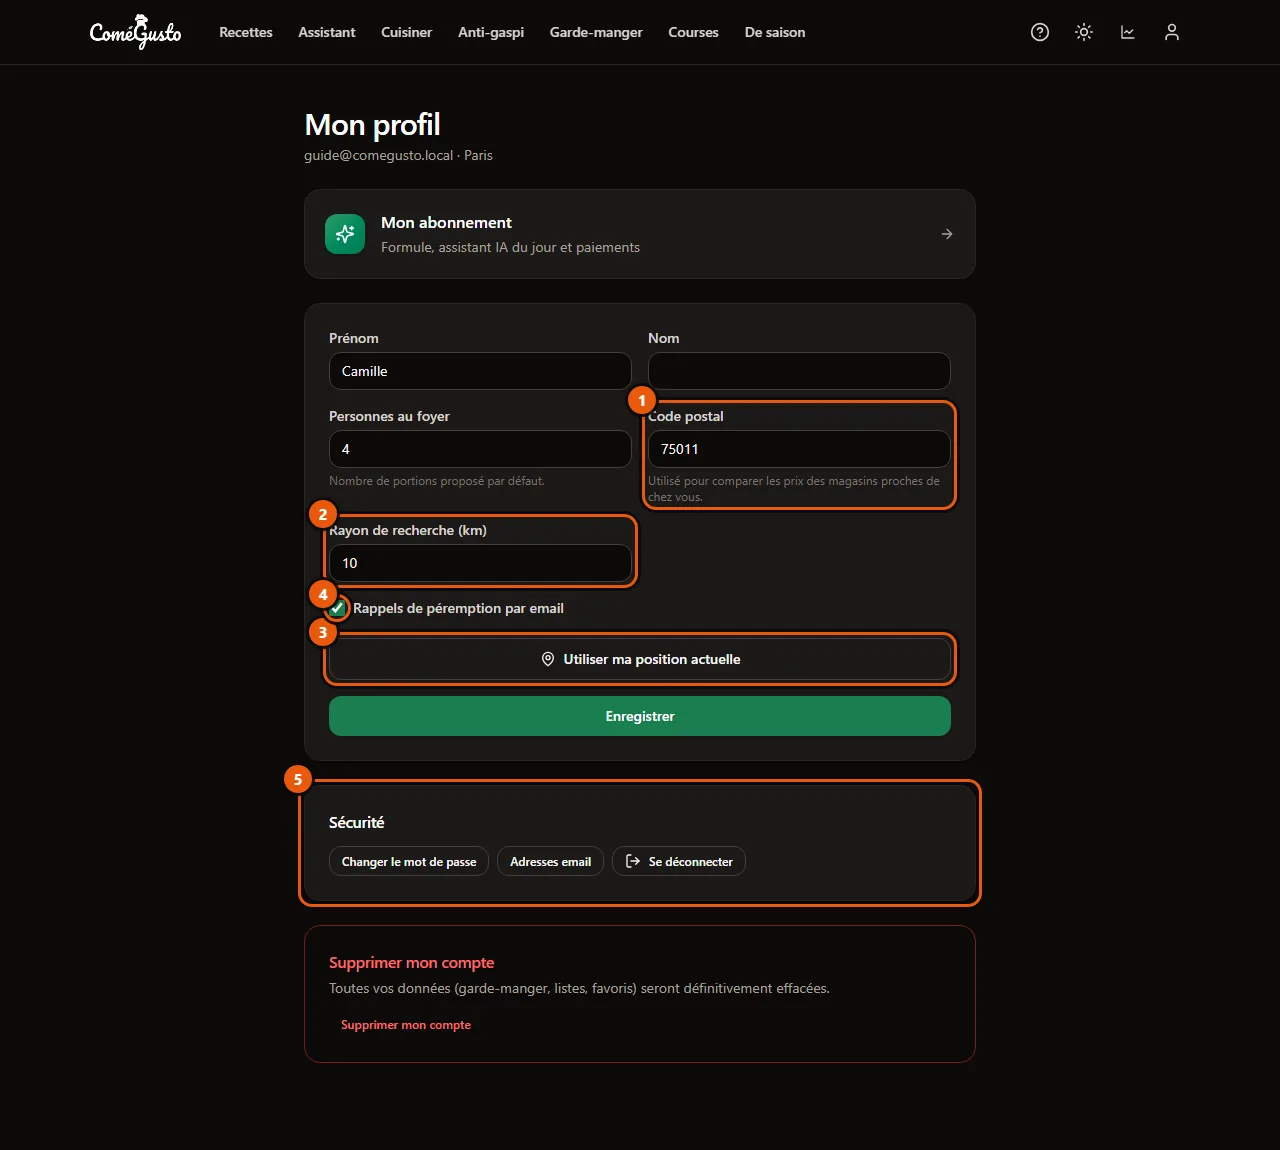
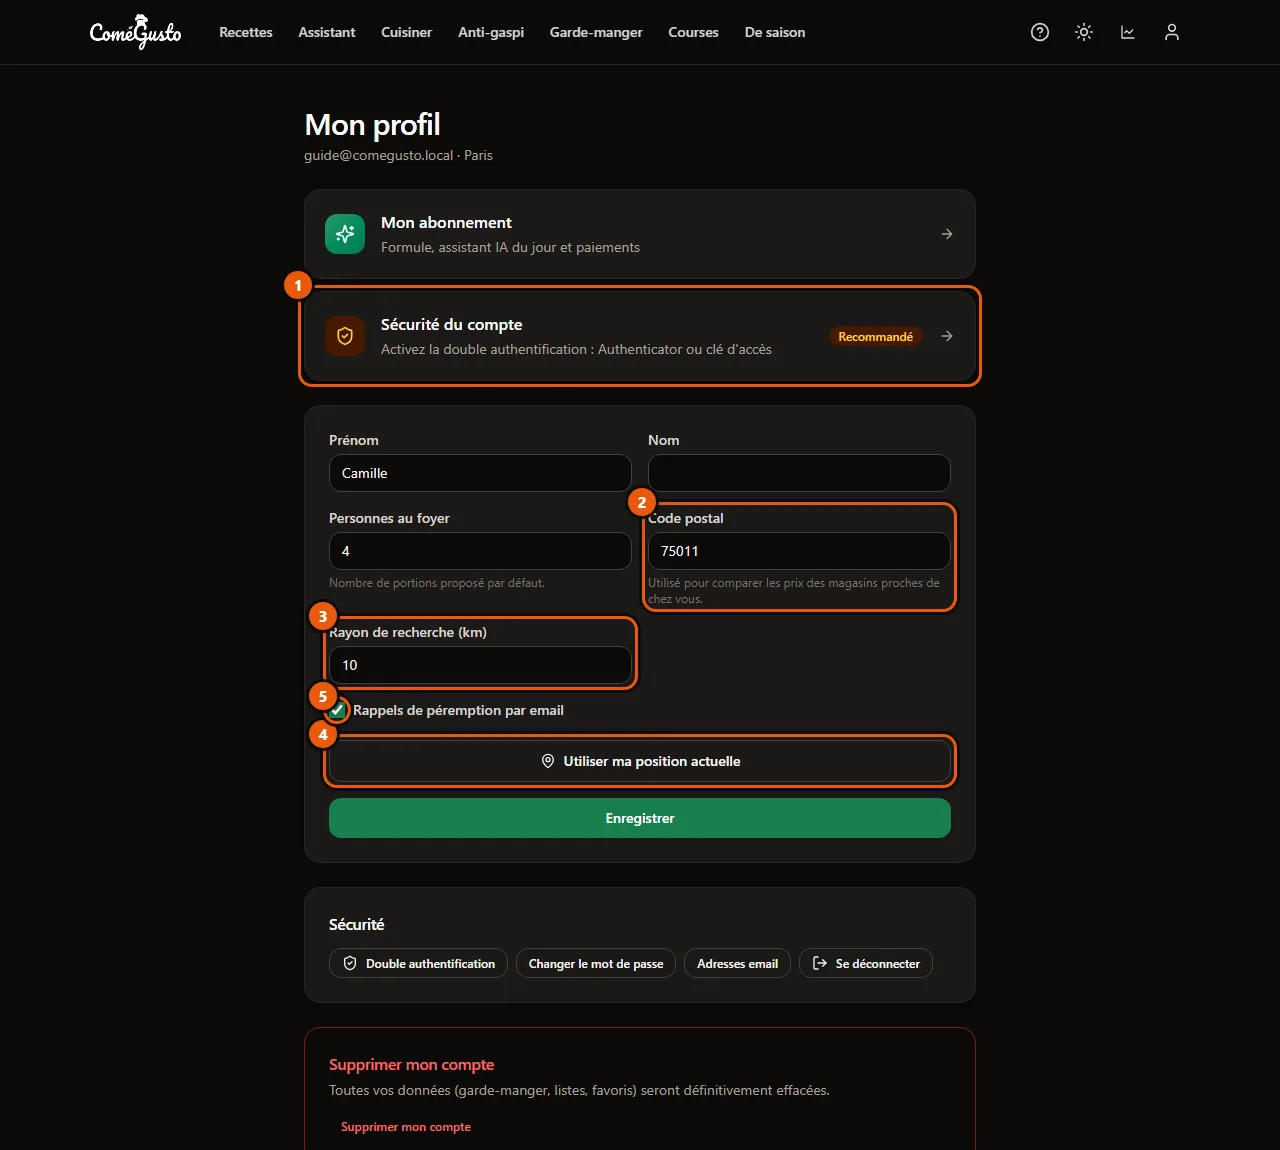
Document account security and multiple account limits (#46)

Changed region(s): [[0.2188, 0.213, 0.7812, 1.0]]

diff --git a/templates/guide/chapters/compte.html b/templates/guide/chapters/compte.html
@@ -9,8 +9,17 @@
   <li><strong>Rappels de péremption</strong> : active ou désactive l'email quotidien.</li>
 </ul>
 
-<h2 id="securite">Sécurité</h2>
-<p>Depuis la section <strong>Sécurité</strong>, changez votre mot de passe, gérez vos adresses email ou déconnectez-vous.</p>
+<h2 id="securite">Sécurité du compte</h2>
+<p>La carte <strong>Sécurité du compte</strong> du profil rassemble la double authentification, le mot de passe et les adresses email.</p>
+{% guide_figure "security" %}
+<p>Avec la double authentification, un mot de passe ne suffit plus pour entrer dans votre compte : il faut aussi votre téléphone ou votre appareil.</p>
+<ul>
+  <li><strong>Application d'authentification</strong> : cliquez sur <strong>Activer</strong>, confirmez votre mot de passe, scannez le QR code avec Google Authenticator, Microsoft Authenticator ou 1Password, puis saisissez le code à 6 chiffres affiché.</li>
+  <li><strong>Clé d'accès</strong> : cliquez sur <strong>Ajouter</strong> et validez avec l'empreinte, le visage ou le code de votre appareil. Vous pourrez ensuite vous connecter avec <strong>Se connecter avec une clé d'accès</strong>, sans mot de passe.</li>
+  <li><strong>Codes de secours</strong> : dix codes à usage unique, créés à l'activation. Téléchargez-les et gardez-les hors de votre téléphone.</li>
+</ul>
+<p>À la connexion suivante, Comégusto demande le code de l'application (ou votre clé d'accès). Vous pouvez faire confiance au navigateur pendant deux semaines pour ne pas le saisir à chaque fois.</p>
+<p class="guide-note">La double authentification demande une adresse email confirmée. Si besoin, renvoyez le lien depuis <strong>Adresses email</strong>.</p>
 
 <h2 id="supprimer">Supprimer son compte</h2>
 <p>La suppression est définitive : garde-manger, listes de courses et favoris sont effacés. Une confirmation vous est demandée avant toute suppression.</p>

diff --git a/templates/guide/chapters/faq.html b/templates/guide/chapters/faq.html
@@ -62,5 +62,19 @@
   <p>Non, pas pour un virement ou un paiement Wero : vous payez une période, puis votre compte revient à la formule Gratuit. Vous renouvelez quand vous le souhaitez.</p>
 </details>
 
+<h2 id="securite">Sécurité</h2>
+<details>
+  <summary>J'ai perdu mon téléphone, comment me connecter ?</summary>
+  <p>Saisissez un de vos codes de secours à la place du code de l'application, puis réactivez la double authentification depuis <strong>Sécurité du compte</strong>. Sans code de secours, écrivez-nous depuis la page <a href="{% url 'core:contact' %}">Contact</a> : après vérification, l'équipe peut retirer la double authentification de votre compte.</p>
+</details>
+<details>
+  <summary>Pourquoi mon quota d'assistant est-il partagé ?</summary>
+  <p>Les comptes gratuits utilisés sur le même appareil partagent le quota du jour, pour que chacun puisse profiter de l'assistant sans que des comptes en série l'épuisent. Les formules Plus et Famille ont leur propre quota.</p>
+</details>
+<details>
+  <summary>Pourquoi mon adresse email est-elle refusée ?</summary>
+  <p>Les adresses temporaires (jetables) ne sont pas acceptées, et une même boîte mail ne peut ouvrir qu'un compte, y compris avec un alias comme <code>prenom+courses@…</code>.</p>
+</details>
+
 <h2 id="aide">Besoin d'aide ?</h2>
 <p>Écrivez-nous via la page <a href="{% url 'core:contact' %}">Contact</a>, ou signalez un problème sur <a href="https://github.com/Aziguy/reaco_updated/issues" rel="noopener">GitHub</a>.</p>

diff --git a/apps/guide/content.py b/apps/guide/content.py
@@ -439,6 +439,7 @@ FIGURES = {
             height=1150,
             caption="Votre profil.",
             callouts=(
+                Callout('main a[href="/compte/2fa/"] >> nth=0', "Sécurité du compte"),
                 Callout(
                     ".field:has(#id_postal_code)",
                     "Code postal",
@@ -449,7 +450,29 @@ FIGURES = {
                     "[data-geolocate]", "Ma position", "Remplit la localisation automatiquement."
                 ),
                 Callout("#id_expiry_reminders", "Rappels par email"),
-                Callout('main section:has(h2:text-is("Sécurité"))', "Sécurité"),
+            ),
+        ),
+        Figure(
+            name="security",
+            path="/compte/2fa/",
+            height=820,
+            caption="La double authentification, depuis Sécurité du compte.",
+            callouts=(
+                Callout(
+                    'main li:has(h2:text-is("Application d\'authentification"))',
+                    "Application",
+                    "Un code à 6 chiffres à chaque connexion.",
+                ),
+                Callout(
+                    'main li:has(h2:text-is("Clés d\'accès"))',
+                    "Clé d'accès",
+                    "Empreinte, visage ou code de l'appareil.",
+                ),
+                Callout(
+                    'main li:has(h2:text-is("Codes de secours"))',
+                    "Codes de secours",
+                    "Si vous perdez votre téléphone.",
+                ),
             ),
         ),
         Figure(
@@ -691,9 +714,9 @@ CHAPTERS = [
     Chapter(
         "compte",
         "Mon compte",
-        "Profil, localisation, rappels, sécurité et suppression.",
+        "Profil, localisation, double authentification et suppression.",
         "user",
-        ("profile",),
+        ("profile", "security"),
     ),
     Chapter(
         "abonnement",

diff --git a/apps/guide/management/commands/capture_guide.py b/apps/guide/management/commands/capture_guide.py
@@ -144,6 +144,7 @@ class Command(BaseCommand):
         user.pantry_items.all().delete()
         user.shopping_lists.all().delete()
         user.subscriptions.all().delete()
+        user.authenticator_set.all().delete()
         plan = Plan.objects.filter(slug="plus").first()
         if plan:
             Subscription.objects.create(

diff --git a/docs/src/content/docs/architecture/securite.md b/docs/src/content/docs/architecture/securite.md
@@ -37,6 +37,26 @@ Le contrôle `/health/` est traité par un middleware placé avant la validation
 - Connexion Google facultative, activée seulement si `GOOGLE_CLIENT_ID` est défini.
 - Chemin de l'administration personnalisable (`ADMIN_URL`).
 
+## Double authentification
+
+`allauth.mfa` ajoute un second facteur à la connexion, quel que soit le moyen de connexion :
+
+| Méthode | Détail |
+| --- | --- |
+| Application d'authentification | Codes TOTP à 6 chiffres (Google Authenticator, Microsoft Authenticator, 1Password…), secret chiffré en base |
+| Clés d'accès | WebAuthn (empreinte, visage, Windows Hello, clé de sécurité) ; une clé « sans mot de passe » permet aussi de se connecter seule (`MFA_PASSKEY_LOGIN_ENABLED`) |
+| Codes de secours | Dix codes à usage unique, créés à l'activation |
+
+- Activer ou retirer une méthode redemande le mot de passe, et exige une adresse email vérifiée.
+- Après le code, l'utilisateur peut faire confiance au navigateur pendant 14 jours (`MFA_TRUST_ENABLED`, cookie signé).
+- Les écrans sont ceux du site (`templates/mfa/`) ; la page **Sécurité du compte** est `/compte/2fa/`.
+
+**Administration.** La page de connexion de l'administration redirige vers celle du site (`secure_admin_login`), qui applique la double authentification. `apps.accounts.middleware.StaffMFAMiddleware` renvoie tout compte de l'équipe sans méthode active vers la page de sécurité (`MFA_REQUIRED_FOR_STAFF`, actif par défaut). Un super-utilisateur peut réinitialiser la double authentification d'un compte depuis la liste des utilisateurs, pour une personne qui a perdu son téléphone et ses codes.
+
+:::note
+Les jetons d'API (`TokenAuthentication`) ne passent pas par la double authentification : ils ne sont créés que par l'équipe, depuis l'administration. Traitez-les comme des mots de passe.
+:::
+
 ## Données personnelles
 
 - Chaque vue et chaque point d'API qui touche au garde-manger, aux listes ou aux favoris filtre sur l'utilisateur connecté ; les tests vérifient qu'un autre utilisateur obtient une 404.
@@ -51,6 +71,23 @@ Le contrôle `/health/` est traité par un middleware placé avant la validation
 - Une page de paiement n'est visible que par son abonné ; une formule n'est activée que par l'équipe (virement, Wero) ou par un événement signé (Stripe).
 
 ## Abus
+
+### Comptes multiples
+
+Créer plusieurs comptes pour cumuler les quotas gratuits de l'assistant est freiné, sans empreinte du navigateur ni donnée tierce :
+
+| Mesure | Détail |
+| --- | --- |
+| Adresses jetables refusées | Liste `disposable-email-domains` (près de 10 000 domaines, sous-domaines compris), complétée par `BLOCKED_EMAIL_DOMAINS` |
+| Une boîte mail, un compte | `User.email_canonical` : minuscules, sans `+étiquette`, sans les points de Gmail (`googlemail.com` compris) ; vérifié à l'inscription |
+| Inscriptions par connexion | Au plus `SIGNUP_LIMIT_PER_IP` comptes créés par adresse IP et par jour (5 par défaut, 0 pour désactiver) |
+| Email vérifié pour l'assistant | Un compte dont l'adresse attend sa confirmation n'utilise pas l'assistant |
+| Jeton d'appareil | Cookie signé `cg_device` (HttpOnly, 2 ans), posé pour les comptes connectés uniquement ; seule son empreinte SHA-256 est en base (`Device`, `DeviceLink`) |
+| Quota partagé | Les comptes gratuits vus sur un même appareil partagent le quota du jour de l'assistant ; abonnés et équipe gardent le leur |
+
+Les comptes liés à un même appareil sont visibles sur la fiche utilisateur de l'administration (filtre **appareil partagé**). Ces mesures relèvent de la sécurité du service : le jeton n'est ni publicitaire ni partagé, mais il doit figurer dans la politique de confidentialité.
+
+### Limites de débit
 
 - Formulaire de contact : pot de miel et limite de 3 messages par heure et par adresse IP (`apps/core/ratelimit.py`, compteur en cache).
 - API : 60 requêtes par minute en anonyme, 240 authentifié.

diff --git a/docs/src/content/docs/evolution/decisions.md b/docs/src/content/docs/evolution/decisions.md
@@ -90,3 +90,15 @@ Chaque décision suit le même format : contexte, décision, conséquences. Pour
 - **Contexte** : l'équipe ne peut pas saisir tous les plats demandés par les utilisateurs.
 - **Décision** : un plat absent est écrit par l'assistant à la demande et part en relecture ; l'administration peut suggérer et générer des plats par lot. Un ingrédient inconnu est créé « à vérifier » plutôt que retiré de la recette.
 - **Conséquences** : le catalogue s'enrichit des envies réelles ; rien n'est publié sans relecture ; les nouveaux ingrédients ont un prix dès que leur catégorie Open Food Facts est vérifiée.
+
+## 15. Double authentification avec allauth.mfa, obligatoire pour l'équipe
+
+- **Contexte** : un mot de passe volé ouvrirait un compte, et pour l'équipe l'administration, les paiements et les données des utilisateurs.
+- **Décision** : `allauth.mfa`, déjà cohérent avec la connexion existante : application d'authentification, clés d'accès et codes de secours. La connexion de l'administration passe par celle du site ; la double authentification y est obligatoire. Pour les utilisateurs, elle est proposée et recommandée.
+- **Conséquences** : pas de service tiers ni de SMS ; un super-utilisateur peut réinitialiser la double authentification d'un compte ; les jetons d'API restent réservés à l'équipe.
+
+## 16. Comptes multiples : mesures proportionnées, sans empreinte du navigateur
+
+- **Contexte** : le quota gratuit de l'assistant coûte environ un centime par jour et par compte ; des comptes en série pourraient épuiser le budget mensuel.
+- **Décision** : refuser les adresses jetables et les alias d'une même boîte, limiter les inscriptions par adresse IP, exiger un email vérifié pour l'assistant, et poser un jeton signé sur l'appareil des comptes connectés : les comptes gratuits d'un appareil partagent le quota du jour. Pas d'empreinte du navigateur (fingerprinting), soumise au consentement et peu fiable, ni de vérification par SMS, payante.
+- **Conséquences** : contourner demande une nouvelle boîte mail réelle, un navigateur vierge et une autre connexion ; une famille sur un même appareil partage le quota gratuit, ce que couvre la formule Famille.

diff --git a/docs/src/content/docs/deploiement/configuration.md b/docs/src/content/docs/deploiement/configuration.md
@@ -146,8 +146,11 @@ Une erreur `redirect_uri_mismatch` signifie que l'URI déclarée ne correspond p
 | `ADMIN_URL` | Chemin de l'administration, à personnaliser (`gestion-8f3k/`). |
 | `SECURE_SSL_REDIRECT`, `SECURE_COOKIES` | Redirection HTTPS et cookies sécurisés, actifs par défaut hors `DEBUG`. Ne les désactivez que derrière un proxy qui ne transmet pas `X-Forwarded-Proto`. |
 | `SECURE_HSTS_SECONDS`, `SECURE_HSTS_PRELOAD` | HSTS d'un an par défaut. N'activez le préchargement qu'une fois tous les sous-domaines en HTTPS. |
+| `MFA_REQUIRED_FOR_STAFF` | Double authentification obligatoire pour l'administration (`true` par défaut). |
+| `SIGNUP_LIMIT_PER_IP` | Comptes créés au plus par adresse IP et par jour (5 par défaut, 0 pour désactiver). |
+| `BLOCKED_EMAIL_DOMAINS` | Domaines refusés à l'inscription, en plus de la liste des adresses jetables (séparés par des virgules). |
 
-Créez le premier administrateur avec `python manage.py createsuperuser`.
+Créez le premier administrateur avec `python manage.py createsuperuser`. À sa première visite de l'administration, il active la double authentification (application ou clé d'accès) : gardez ses codes de secours en lieu sûr.
 
 ## Base de données, cache et médias
 
@@ -224,6 +227,8 @@ Sans service `scheduler`, voir [Tâches planifiées](/reaco_updated/deploiement/
 | `ADMIN_URL` | `admin/` | [Sécurité](#domaine-et-sécurité) |
 | `SECURE_SSL_REDIRECT`, `SECURE_COOKIES` | actifs hors `DEBUG` | [Sécurité](#domaine-et-sécurité) |
 | `SECURE_HSTS_SECONDS`, `SECURE_HSTS_PRELOAD` | `31536000`, `false` | [Sécurité](#domaine-et-sécurité) |
+| `MFA_REQUIRED_FOR_STAFF` | `true` | [Sécurité](#domaine-et-sécurité) |
+| `SIGNUP_LIMIT_PER_IP`, `BLOCKED_EMAIL_DOMAINS` | `5`, vide | [Sécurité](#domaine-et-sécurité) |
 | `DATABASE_URL` | SQLite local | [Base de données](#base-de-données-cache-et-médias) |
 | `CONN_MAX_AGE` | `60` | [Base de données](#base-de-données-cache-et-médias) |
 | `REDIS_URL` | vide | [Cache](#base-de-données-cache-et-médias) |

diff --git a/README.md b/README.md
@@ -84,6 +84,10 @@ Chaque Français jette en moyenne une trentaine de kilos de nourriture par an, p
 - Paiement par virement ou Wero, confirmé depuis l'administration ; Stripe intégré, désactivé par défaut.
 - Page « Où va votre argent » : frais du mois, coût réel de l'IA et part couverte par les abonnements.
 
+**Sécurité du compte**
+- Double authentification : application d'authentification, clés d'accès (empreinte, visage) et codes de secours ; obligatoire pour l'administration.
+- Inscriptions multiples freinées : adresses jetables et alias refusés, limite par connexion, quota gratuit partagé par appareil.
+
 **Et aussi**
 - Calendrier des fruits et légumes de saison.
 - Guide utilisateur intégré, avec captures annotées générées automatiquement.
@@ -260,6 +264,7 @@ La CI GitHub Actions exécute le lint, les tests sur PostgreSQL, `check --deploy
 
 - Aucun secret dans le code : configuration par variables d'environnement.
 - Content Security Policy stricte (aucun script ni style en ligne), HSTS, cookies sécurisés, `X-Frame-Options: DENY`.
+- Double authentification (TOTP, clés d'accès, codes de secours), obligatoire pour l'équipe.
 - Limitation de débit sur l'authentification (allauth), l'API et le formulaire de contact (avec pot de miel).
 - Isolation stricte des données par utilisateur, couverte par des tests.
 - Images externes restreintes aux domaines Open Food Facts.

diff --git a/docs/src/content/docs/architecture/modele-donnees.md b/docs/src/content/docs/architecture/modele-donnees.md
@@ -68,7 +68,7 @@ La recherche découpe la requête en mots et exige que chacun figure dans `searc
 
 ## Utilisateurs (`apps.accounts`)
 
-`User` remplace le modèle Django par défaut : pas de nom d'utilisateur, connexion par email (`USERNAME_FIELD = "email"`). Il porte la taille du foyer, la localisation (code postal, ville, latitude, longitude, rayon de recherche) et la préférence de rappels par email. Supprimer un compte supprime en cascade son garde-manger, ses listes et ses favoris.
+`User` remplace le modèle Django par défaut : pas de nom d'utilisateur, connexion par email (`USERNAME_FIELD = "email"`). Il porte la taille du foyer, la localisation (code postal, ville, latitude, longitude, rayon de recherche) et la préférence de rappels par email. `email_canonical` identifie la boîte mail (sans alias) pour refuser un second compte. `Device` enregistre l'empreinte du jeton posé sur un navigateur et `DeviceLink` les comptes qui s'y sont connectés. Les méthodes de double authentification sont dans `allauth.mfa` (`Authenticator`). Supprimer un compte supprime en cascade son garde-manger, ses listes et ses favoris.
 
 ## Modèle abstrait
 

diff --git a/docs/src/content/docs/architecture/abonnements.md b/docs/src/content/docs/architecture/abonnements.md
@@ -36,6 +36,8 @@ L'application `apps/billing` finance le site sans chercher le profit : les fonct
 2. le `PlanQuota` de la formule de l'utilisateur : celle de son abonnement en cours, sinon la formule par défaut ;
 3. le quota de la route (`Route.daily_quota`) si la formule ne fixe rien pour cette fonctionnalité.
 
+Pour un compte sans abonnement, le compteur du jour additionne les appels des comptes gratuits vus sur le même appareil (voir [Sécurité](/reaco_updated/architecture/securite/#comptes-multiples)). L'assistant demande aussi une adresse email vérifiée.
+
 Le mode Approfondi exige une formule avec `deep_mode`. Les comptes de l'équipe en sont dispensés, et la génération du catalogue (`catalog`) n'a pas de quota de formule.
 
 | Fonctionnalité | Gratuit | Plus | Famille |
